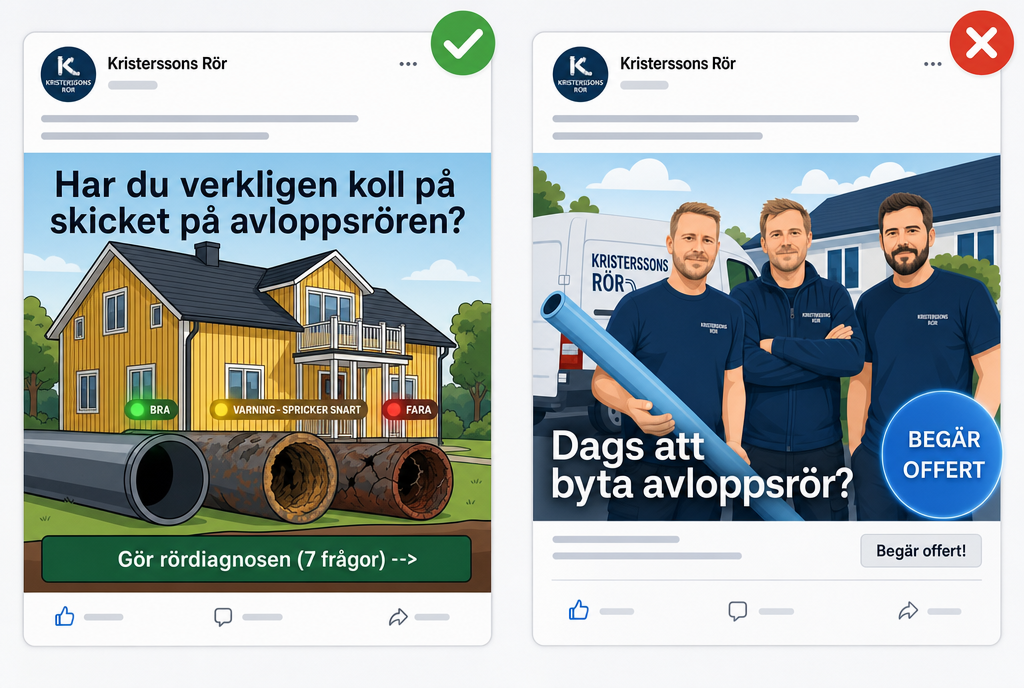
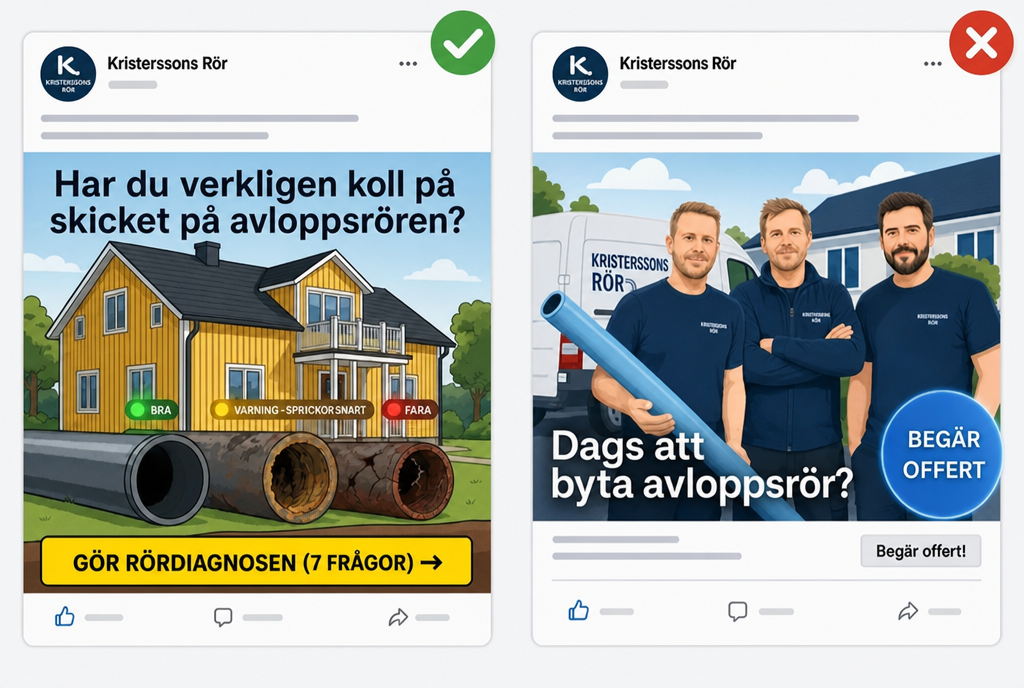
Swap in squarer Happident and qualification funnel images.

diff --git a/app/(outreach)/demo/[leadSlug]/page.tsx b/app/(outreach)/demo/[leadSlug]/page.tsx
@@ -297,8 +297,8 @@ export default async function LeadDemoPage({ params }: PageProps<'/demo/[leadSlu
           <SectionImage
             src="/demo/qualification-funnel.png"
             alt="Kvalificeringstratt: från alla som gör rörtestet ner till bokat hembesök via byggår, bostadstyp, symptom och ålder."
-            width={1024}
-            height={688}
+            width={800}
+            height={680}
           />
           <p className="section-copy">
             Uppfyller huset inte kriterierna erbjuds inget kostnadsfritt hembesök — det sorteras bort
@@ -389,8 +389,8 @@ export default async function LeadDemoPage({ params }: PageProps<'/demo/[leadSlu
           <SectionImage
             src="/demo/happident-implant-quiz.png"
             alt="Happidents implantat-quiz: frågesteg till vänster och personlig analys med bokningsknapp till höger."
-            width={1024}
-            height={688}
+            width={800}
+            height={680}
           />
           <p className="bridge-line">
             Och det är inte första gången den här typen av system bevisat sig fungera — bara första
